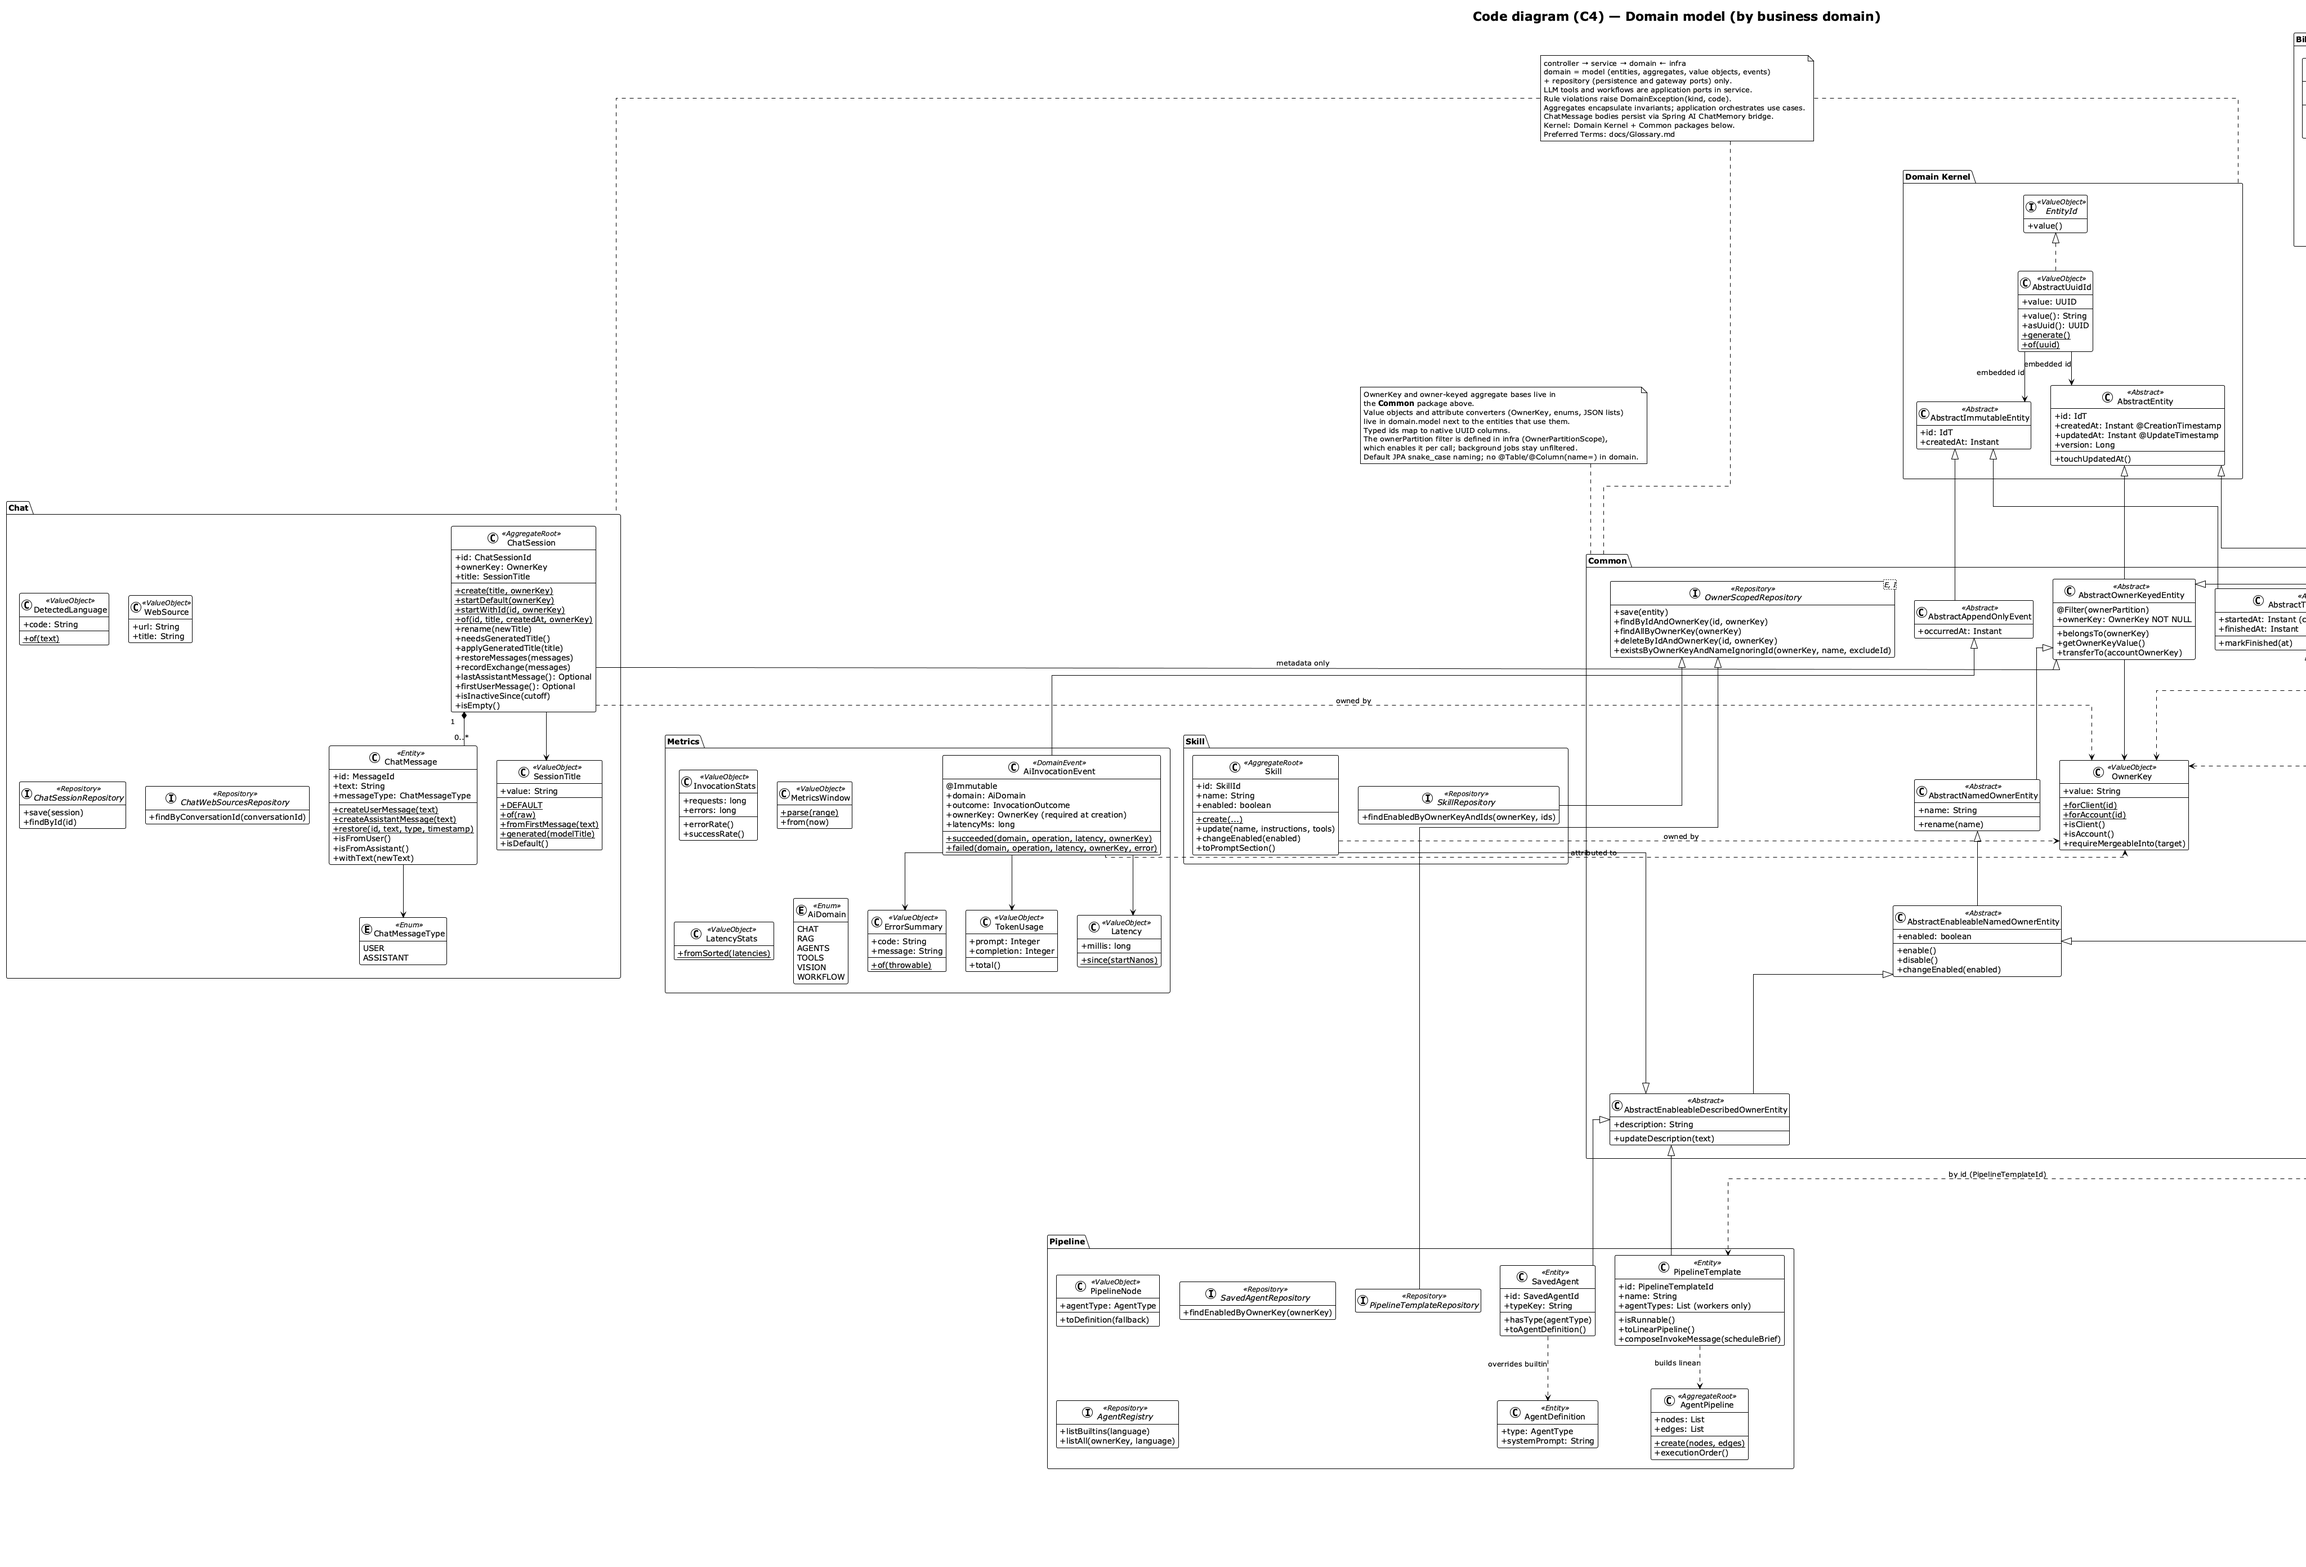
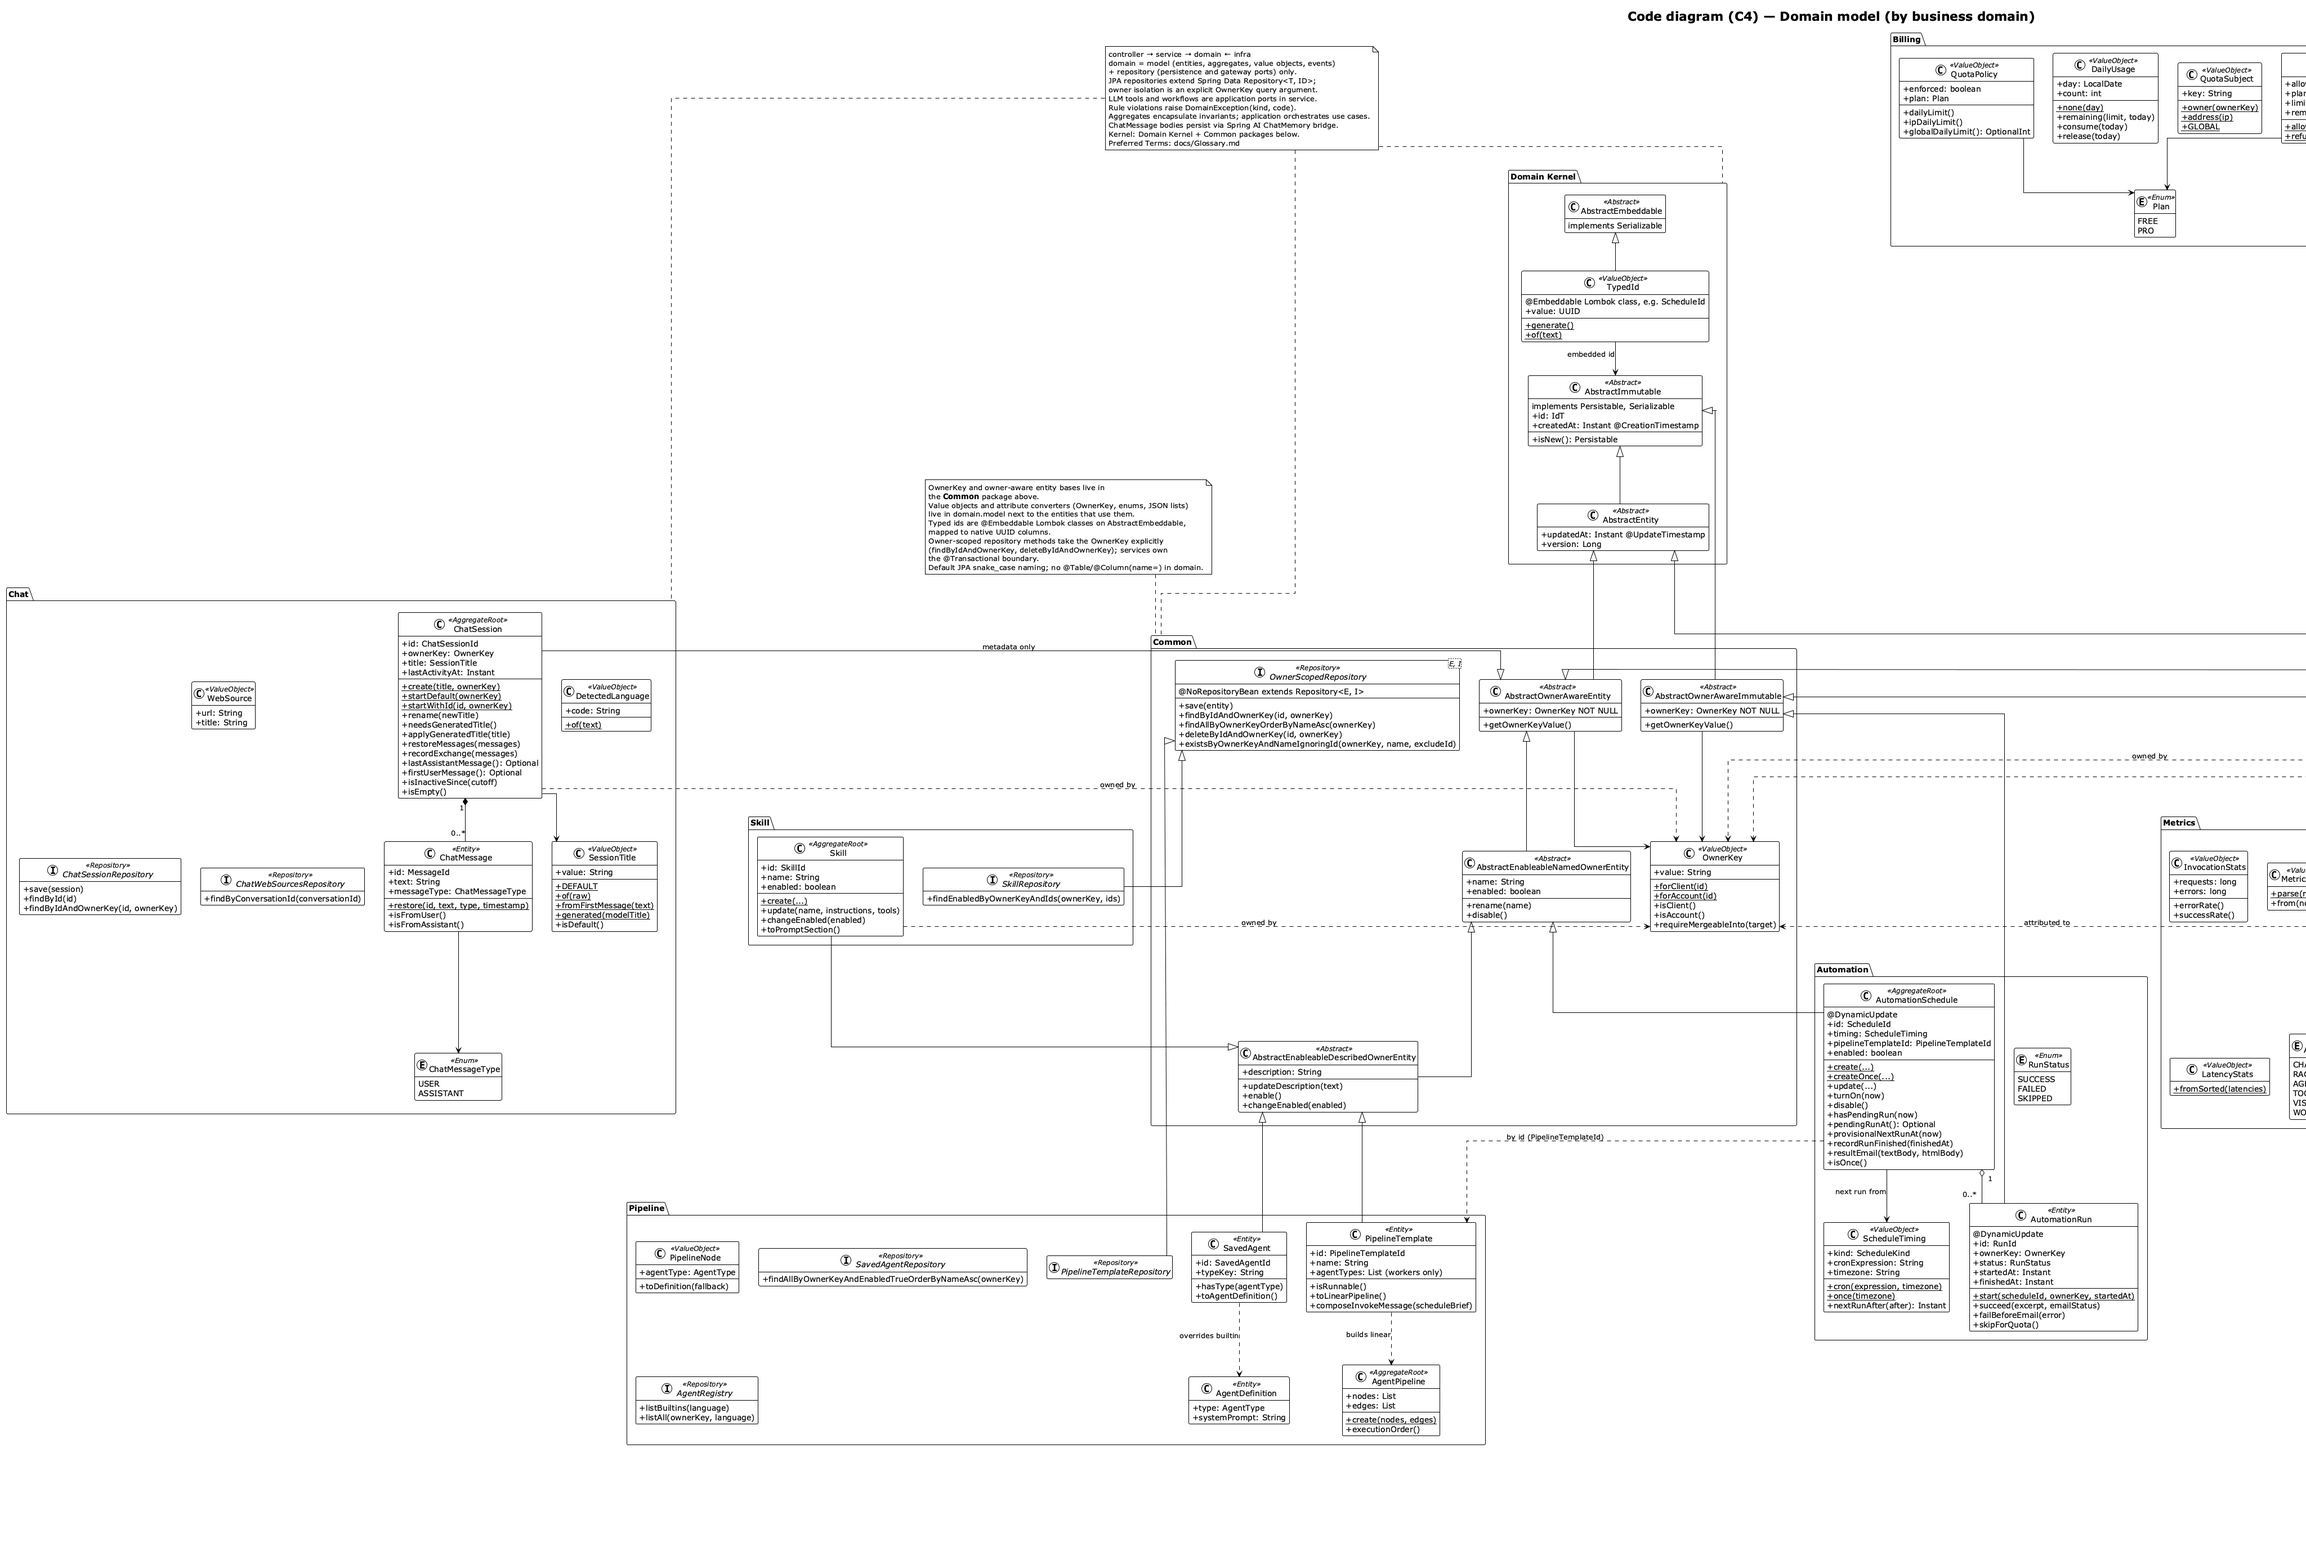
Document the domain on Spring Data repositories
The glossary and the code-level C4 diagram describe the target
before the code moves. JPA repositories become Spring Data aggregate
repositories that take the owner key explicitly, so the Hibernate
owner filter and its per-call scope go away. Typed ids become Lombok
value classes on an embeddable layer supertype, and the entity bases
form one line from immutable to mutable to owner-aware, so the
single-use bases fold into their entities.

References:

- https://docs.spring.io/spring-data/jpa/reference/repositories/definition.html
- https://martinfowler.com/eaaCatalog/layerSupertype.html
- https://c4model.com/diagrams/code

diff --git a/docs/Glossary.md b/docs/Glossary.md
@@ -121,23 +121,18 @@ Shared persistence and aggregate bases. Feature modules inherit these types inst
 
 | Preferred Term (English) | 中文 | Definition | Type | Code Mapping | Notes |
 | ------------------------ | ---- | ---------- | ---- | ------------ | ----- |
-| Entity ID | 实体标识 | Typed UUID wrapper for `@EmbeddedId` | Value Object | `EntityId`, `AbstractUuidId` | Package `com.ai.common.domain.model` |
-| Abstract Entity | 可变实体基类 | JPA `@MappedSuperclass` with id, audit timestamps, optimistic `@Version` | Mapped Superclass | `AbstractEntity<IdT>` | Subclasses call `touchUpdatedAt()` on mutation |
-| Abstract Immutable | 不可变记录基类 | Append-only rows: id + `created_at` only | Mapped Superclass | `AbstractImmutableEntity<IdT>` | Used for event streams |
-| Base JPA Config | JPA 内核配置 | `@EnableJpaAuditing`, repository scan | Configuration | `JpaRepositoriesConfig` | Replaces per-module duplicate JPA config |
-| Owner-Keyed Entity | 归属键实体基类 | Rows partitioned by `owner_key` | Mapped Superclass | `AbstractOwnerKeyedEntity<IdT>` | `belongsTo`, `getOwnerKeyValue`, `transferTo` (guest `c:` → account `u:` only, via `OwnerKey.requireMergeableInto`) |
-| Owner Partition Filter | 归属分区过滤器 | Hibernate filter limiting queries and loads by id to one Owner Key | Persistence | `ownerPartition` (defined in `common.infra.persistence`), `OwnerPartitionScope` | Enabled per adapter call inside a transaction; background jobs stay unfiltered |
-| Named Owner Entity | 命名归属实体 | Owner-keyed row with validated `name` | Mapped Superclass | `AbstractNamedOwnerEntity<IdT>` | Max 120 chars via `DomainStrings` |
-| Enableable Entity | 可启用实体 | Named owner row with an `enabled` flag; the described variant adds `description` | Mapped Superclass | `AbstractEnableableNamedOwnerEntity<IdT>`, `AbstractEnableableDescribedOwnerEntity<IdT>` | `enable()` / `disable()` / `changeEnabled(boolean)`; schedules use the named variant and re-arm through `turnOn` |
-| Timed Run Entity | 定时运行记录 | `started_at` / `finished_at` without `updated_at` | Mapped Superclass | `AbstractTimedRunEntity<IdT>` | Extends Abstract Immutable (`createdAt` → `started_at`); automation runs |
-| Append-Only Event | 追加事件 | Immutable AI invocation / audit event | Mapped Superclass | `AbstractAppendOnlyEvent<IdT>` | Maps `createdAt` → `occurred_at` |
-| Owner-Scoped Repository | 归属仓储契约 | Owner-scoped CRUD contract | Repository | `OwnerScopedRepository<E, I>` | `findByIdAndOwnerKey`, etc. |
+| Entity ID | 实体标识 | Typed UUID identity of one aggregate, used as `@EmbeddedId` | Value Object | `@Embeddable` Lombok classes such as `ScheduleId` with one `UUID value` | `generate()` / `of(text)`; ids of different aggregates never compare equal |
+| Abstract Embeddable | 值对象基类 | Layer supertype of the value objects embedded in entities | Mapped Superclass | `AbstractEmbeddable` | Carries `Serializable`, which embedded ids require, so no value object declares it |
+| Abstract Immutable | 不可变实体基类 | Root of every entity: assigned id and creation time | Mapped Superclass | `AbstractImmutable<IdT>` | Hibernate stamps `createdAt`; implements Spring Data `Persistable` so `save` inserts without a merge |
+| Abstract Entity | 可变实体基类 | Immutable base plus update time and optimistic `@Version` | Mapped Superclass | `AbstractEntity<IdT>` | Hibernate stamps `updatedAt` when a dirty row is flushed |
+| Owner-Aware Entity | 归属实体基类 | Rows partitioned by `owner_key`, in a mutable and an immutable variant | Mapped Superclass | `AbstractOwnerAwareEntity<IdT>`, `AbstractOwnerAwareImmutable<IdT>` | `getOwnerKeyValue`; `OwnerMergeService` moves guest `c:` rows to the account `u:` in bulk; automation runs use the immutable variant |
+| Enableable Entity | 可启用实体 | Owner row with a validated `name` and an `enabled` flag; the described variant adds `description` | Mapped Superclass | `AbstractEnableableNamedOwnerEntity<IdT>`, `AbstractEnableableDescribedOwnerEntity<IdT>` | Name max 120 chars via `DomainStrings`; `disable()` on both; `enable()` / `changeEnabled(boolean)` on the described variant; schedules re-arm through `turnOn` |
+| Owner-Scoped Repository | 归属仓储契约 | Owner-scoped Spring Data contract | Repository | `OwnerScopedRepository<E, I>` (`@NoRepositoryBean`, extends `Repository<E, I>`) | Every read and delete takes the `OwnerKey` (`findByIdAndOwnerKey`, `deleteByIdAndOwnerKey`); there is no implicit owner filter |
 | Domain Strings | 域字符串校验 | Shared name/description normalization and copy-name candidates | Utility | `DomainStrings` | `normalizeName` before uniqueness checks; `copyNameCandidates` stays within the 120-char limit |
-| Owner Keys | 归属键工具 | Parse and build `c:` / `u:` keys | Utility | `OwnerKeys` | Replaces duplicated `requireClientId` |
 
 **Layer packages (per feature module):** `controller` → `service` → `domain` ← `infra` (+ `mapper` when needed). Legacy names `web`, `application`, `infrastructure` are forbidden in new code.
 
-**Domain packages:** `domain.model` holds only entities, aggregate roots, value objects and domain events; `domain.repository` holds repository and gateway interfaces. LLM tools (`DocumentSearchTool`, `WebSearchTool`) and Effective Agents workflows are application ports in `service`, not domain types. There is no `domain.vo`, `domain.service`, `domain.tool` or `domain.exception`; rule violations raise `DomainException` from `com.ai.common.exception`.
+**Domain packages:** `domain.model` holds only entities, aggregate roots, value objects and domain events; `domain.repository` holds repository and gateway interfaces. JPA-backed repositories extend Spring Data `Repository<T, ID>` and are implemented by Spring Data; `infra` only implements repositories backed by JDBC, the vector store, Spring AI or external services. LLM tools (`DocumentSearchTool`, `WebSearchTool`) and Effective Agents workflows are application ports in `service`, not domain types. There is no `domain.vo`, `domain.service`, `domain.tool` or `domain.exception`; rule violations raise `DomainException` from `com.ai.common.exception`.
 
 ---
 
@@ -226,7 +221,7 @@ Shared persistence and aggregate bases. Feature modules inherit these types inst
 | Agent Prompt Catalog     | Agent 提示词目录   | **Superseded** — builtins from `agent-templates/{lang}.json` via `AgentTemplateCatalog` | — | Historical `prompts/agent/*.st` optional reference | Authority: Pipeline `AgentTemplateCatalog` |
 | Agent Skill              | Agent 技能      | Reusable SKILL.md instruction pack for pipeline workers | Value Object   | `AgentSkill`, `agent/skills/*/SKILL.md`        | Opt-in via `app.agent-skills`; shared in `com.ai.common`; ≠ user **Skill** |
 | Skill                    | 技能            | User-managed instruction pack stored per client                  | Entity         | `Skill`, `com.ai.skill`                        | CRUD `/skills`; applied via Chat `skillIds`                        |
-| Skill Registry           | 技能仓储        | Persistence for user Skills                                      | Repository     | `SkillRepository`, `JdbcSkillRepository`       | Scoped by Owner Key                                                |
+| Skill Registry           | 技能仓储        | Persistence for user Skills                                      | Repository     | `SkillRepository` (Spring Data)                 | Scoped by Owner Key                                                |
 | Agent Skills Runtime     | Agent 技能运行时   | Loads controlled skill ids and injects prompt/tool metadata        | Infrastructure | `AgentSkillsRuntime` (`com.ai.common`)         | Default off; used by Pipeline workers         |
 | Prompt Catalog           | 提示词目录         | Versioned prompt fragments under classpath resources               | Infrastructure | `classpath:prompts/**`                         | shared / chat / rag / agent / task / guards     |
 | Prompt Templates         | 提示词组合服务       | Composes default system, RAG system, and Agent prompts             | Infrastructure | `PromptTemplates`, `ClasspathPromptTemplate`     | Injected into ChatClientFactory                 |
@@ -478,7 +473,7 @@ UI shell only (no dedicated Java package). Routes under `/generate` host **Image
 | Entity                   | 实体   | Domain object with identity and mutable lifecycle                                     | Architecture | `ChatMessage`, `Document`, `AgentDefinition`                  | Distinguished by ID                         |
 | Value Object             | 值对象  | Immutable object compared by value, no standalone identity                            | Architecture | `ChatSessionId`, `DocumentId`, `SourceDocument`, `AgentType`  | Use `record` or factory methods             |
 | Application Service      | 应用服务 | Application-layer orchestration of domain objects, repositories and gateways          | Architecture | `RagChatService`, `ChatService`, `PipelineService`            | `*Service` in `service/`; no business-rule details |
-| Repository               | 仓储   | Persistence abstraction for an aggregate                                              | Architecture | `ChatSessionRepository`, `DocumentRepository`                 | Interface in `domain/repository`, impl in `infra/` (`Jpa*`, `Jdbc*`, `H2*`) |
+| Repository               | 仓储   | Persistence abstraction for an aggregate                                              | Architecture | `ChatSessionRepository`, `DocumentRepository`                 | Interface in `domain/repository`; JPA ones extend Spring Data `Repository`, others are implemented in `infra/` (`Jdbc*`, `H2*`) |
 | Gateway                  | 网关   | Outbound call to an external system (LLM, TTS, embedding, email, MCP)                 | Architecture | `TextToSpeechGateway`, `TextEmbeddingGateway`, `EmailGateway` | Interface in `domain/repository`, impl in `infra/` named by technology |
 | Streaming (SSE)          | 流式响应 | Real-time AI output via Server-Sent Events                                            | Technical    | Chat / RAG / Agent SSE endpoints                              | Shared frontend `sse-client`                |
 | Provider                 | 提供商  | LLM or AI service vendor (e.g. OpenAI, Ollama)                                        | Business     | Frontend `selectedProvider`                                   | User-selectable model source                |
@@ -680,7 +675,7 @@ References:
 | `com.ai.mcp.server` / `.client` packages     | `**com.ai.mcp`**             | Single package in code                                                        |
 | `domain.port`                                | `**domain.repository`**      | Project architecture rule                                                     |
 | `*UseCase` / `*Facade` / `*Impl` classes     | **Application Service** (`*Service`) | One class per service; no interface + `Impl` pair                     |
-| `*Adapter` / `I*` interfaces                 | **Repository** / **Gateway** | Name implementations by technology (`JpaDocumentRepository`)                  |
+| `*Adapter` / `I*` interfaces                 | **Repository** / **Gateway** | Name implementations by technology (`JdbcMetricsQueryRepository`)             |
 | Workflow Template (Pipeline)                 | **Pipeline Template**        | Workflow names only the Effective Agents patterns (`com.ai.workflow`)         |
 | client id (inside service / domain)          | **Owner Key**                | Client id names only the browser identity cookie                              |
 | stats / statistics (UI)                      | **KPI** / **Metric**         | Prefer BI Preferred Terms on Metrics pages                                    |
